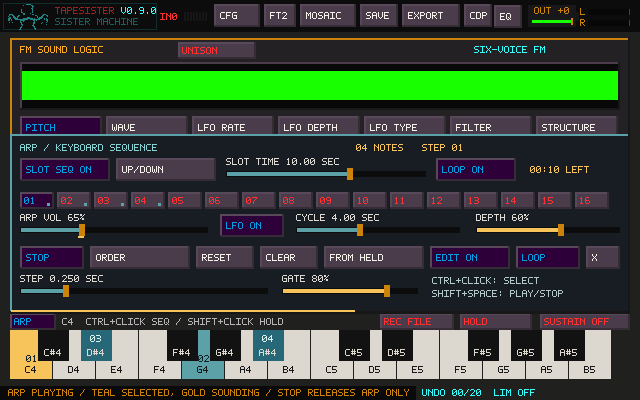
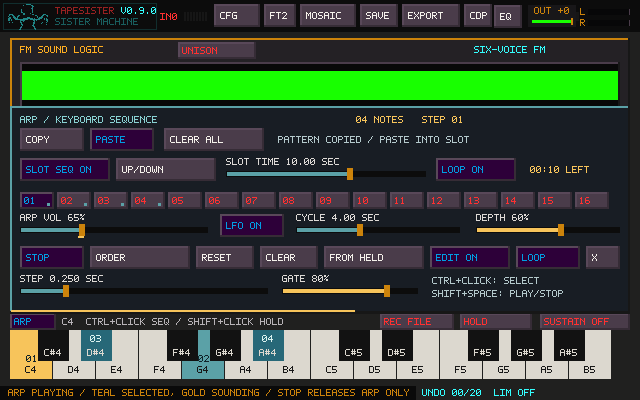
Add ARP bank clear and pattern copy/paste controls

Changed region(s): [[0.0312, 0.24, 0.9688, 0.39]]

diff --git a/include/tapesister/ui.h b/include/tapesister/ui.h
@@ -39,9 +39,9 @@ enum {
 enum { TS_WAVE_X = 20, TS_WAVE_Y = 64, TS_WAVE_W = 600, TS_WAVE_H = 134 };
 enum { TS_MODAL_PANEL_X = 10, TS_MODAL_PANEL_Y = 40,
        TS_MODAL_PANEL_W = 620, TS_MODAL_PANEL_H = 164 };
-enum { TS_ARP_PANEL_X = 10, TS_ARP_PANEL_Y = 140,
-       TS_ARP_PANEL_W = 620, TS_ARP_PANEL_H = 171,
-       TS_ARP_PANEL_FM_Y = 134, TS_ARP_PANEL_FM_H = 179,
+enum { TS_ARP_PANEL_X = 10, TS_ARP_PANEL_Y = 112,
+       TS_ARP_PANEL_W = 620, TS_ARP_PANEL_H = 199,
+       TS_ARP_PANEL_FM_Y = 106, TS_ARP_PANEL_FM_H = 207,
        TS_ARP_PANEL_FM_OFFSET = -6 };
 enum { TS_DRONE_WAVE_X = 20, TS_DRONE_WAVE_Y = 77,
        TS_DRONE_WAVE_W = 600, TS_DRONE_WAVE_H = 70 };
@@ -377,6 +377,9 @@ typedef struct {
     uint32_t performance_hover_due;
     uint32_t active_notes;
     TsKeyboardSequenceSettings keyboard_sequence;
+    TsKeyboardSequenceSettings keyboard_sequence_clipboard;
+    int keyboard_sequence_clipboard_valid;
+    uint32_t keyboard_sequence_clear_deadline;
     int keyboard_sequence_open, keyboard_sequence_edit, keyboard_sequence_drag;
     int keyboard_sequence_running, keyboard_sequence_current, keyboard_sequence_step;
     double keyboard_sequence_progress;

diff --git a/src/ts_keyboard_sequence.c b/src/ts_keyboard_sequence.c
@@ -411,6 +411,31 @@ int ts_keyboard_sequence_select_slot(TsKeyboardSequence *s, int slot)
     return 1;
 }
 
+void ts_keyboard_sequence_clear_all(TsKeyboardSequence *s)
+{
+    TsKeyboardSlotSequence outer = s->bank.sequence;
+    ts_keyboard_sequence_stop(s); /* Keep the existing short release fade. */
+    ts_keyboard_sequence_bank_default(&s->bank);
+    outer.enabled = 0;
+    s->bank.sequence = outer;
+    s->active_slot = 0;
+    apply_settings(s, &s->bank.slot[0]);
+    s->cursor = s->slot_cursor = s->slot_count = 0;
+    s->slot_duration = s->lfo_phase = 0;
+}
+
+void ts_keyboard_sequence_paste(TsKeyboardSequence *s, const TsKeyboardSequenceSettings *settings)
+{
+    TsKeyboardSequenceSettings next = *settings;
+    int playing = ts_keyboard_sequence_active(s), chaining = s->slot_running;
+    stop_notes(s);
+    s->bank.selected = s->active_slot;
+    s->cursor = 0; s->lfo_phase = 0;
+    ts_keyboard_sequence_set(s, &next);
+    if (playing) play_notes(s);
+    if (chaining) start_slot_cycle(s, s->active_slot);
+}
+
 int ts_keyboard_sequence_bank_write(FILE *file, const TsKeyboardSequenceBank *bank)
 {
     TsKeyboardSequenceBank b = *bank;

diff --git a/include/tapesister/keyboard_sequence.h b/include/tapesister/keyboard_sequence.h
@@ -77,6 +77,9 @@ void ts_keyboard_sequence_bank_sanitize(TsKeyboardSequenceBank *bank);
 TsKeyboardSequenceBank ts_keyboard_sequence_export(const TsKeyboardSequence *sequence);
 /* Replaces configuration and clears playback; source ownership is unchanged. */
 void ts_keyboard_sequence_set_bank(TsKeyboardSequence *sequence, const TsKeyboardSequenceBank *bank);
+/* Bank editing: preserves source ownership; paste follows live recall semantics. */
+void ts_keyboard_sequence_clear_all(TsKeyboardSequence *sequence);
+void ts_keyboard_sequence_paste(TsKeyboardSequence *sequence, const TsKeyboardSequenceSettings *settings);
 int ts_keyboard_sequence_select_slot(TsKeyboardSequence *sequence, int slot);
 void ts_keyboard_sequence_set_slot_sequence(TsKeyboardSequence *sequence,
                                             const TsKeyboardSlotSequence *settings);

diff --git a/docs/KEYBOARD_SEQUENCE.md b/docs/KEYBOARD_SEQUENCE.md
@@ -22,6 +22,23 @@ existing short fade. While stopped, a new empty slot opens with default settings
 and stays silent. Existing patterns are always retained. Clicking the active
 slot again leaves its clock alone; RESET explicitly restarts it.
 
+**COPY** captures the highlighted slot's notes and all its pattern settings without
+interrupting playback. Select a destination and **PASTE** to replace its pattern
+and enable EDIT. During playback, PASTE targets the currently highlighted slot,
+restarts its first note/LFO and outer hold with the existing short fade, and keeps
+playing. When stopped, it stays stopped. Other slots and outer mode/time/Loop
+settings are unchanged. Copying an empty slot is allowed; pasting it clears the
+destination's notes. The clipboard is temporary, shared between main/FM views,
+and is not saved in the project.
+
+**CLEAR ALL** empties and resets all 16 patterns, selects 01, stops both ARP clocks
+and switches SLOT SEQ OFF. Click its **CONFIRM** button within three seconds to
+commit; using another ARP control cancels confirmation. Outer mode, Slot Time and
+Loop are retained. Manual/MIDI notes, Sister Machine's held memory and the copied
+pattern are untouched, so you can paste that pattern back after clearing the bank.
+The lower **CLEAR** button still affects only the current slot's notes. Save the
+project to retain pasted patterns or the cleared bank.
+
 The top **SLOT SEQ ON/OFF** row sequences the patterns themselves. Turn it on,
 choose a mode and **SLOT TIME**, then PLAY. Enabling it during playback starts
 its clock immediately; turning it off leaves the current inner pattern playing.
@@ -102,6 +119,8 @@ alongside the sequence, including HOLD, Shift-click chords, and MIDI.
 
 | Control | Action |
 | --- | --- |
+| COPY / PASTE | Copy all pattern settings / replace the highlighted slot; stopped stays stopped |
+| CLEAR ALL | Confirm within three seconds to empty all slots and stop ARP; clipboard retained |
 | 01–16 | Recall a saved pattern, or copy into an empty slot during playback |
 | SLOT SEQ / mode / SLOT TIME / LOOP | Sequence populated slots independently of their note patterns |
 | PLAY / STOP | Start from the first step / release the sequencer's voices only |

diff --git a/docs/USER_MANUAL.md b/docs/USER_MANUAL.md
@@ -989,6 +989,16 @@ These controls affect ARP before it joins the other sources and shared effects.
 Use drag/wheel, Shift-wheel for fine control, or right-click for defaults.
 
 With **EDIT OFF**, play manual HOLD chords and MIDI alongside the sequence.
+### ARP bank editing
+
+The ARP panel’s **COPY / PASTE** buttons transfer a highlighted slot’s notes and
+all pattern settings. PASTE replaces the destination and enables EDIT; live
+playback restarts that pattern and its outer hold, while stopped playback stays
+stopped. **CLEAR ALL** requires a second click within three seconds, resets all
+16 slots and stops ARP. Held notes and Sister memory remain intact. The clipboard
+survives clearing; outer mode, time and Loop remain configured. The lower CLEAR
+button still clears only one slot. See [ARP controls](KEYBOARD_SEQUENCE.md).
+
 **Shift+Space** starts/stops ARP even with its controls hidden, including from
 the tile bank, FM, Mosaic, EQ, and Sister Machine. **ARP STOP**, **Shift+Space**,
 **CLEAR**, and ONCE completion release only sequencer voices;
